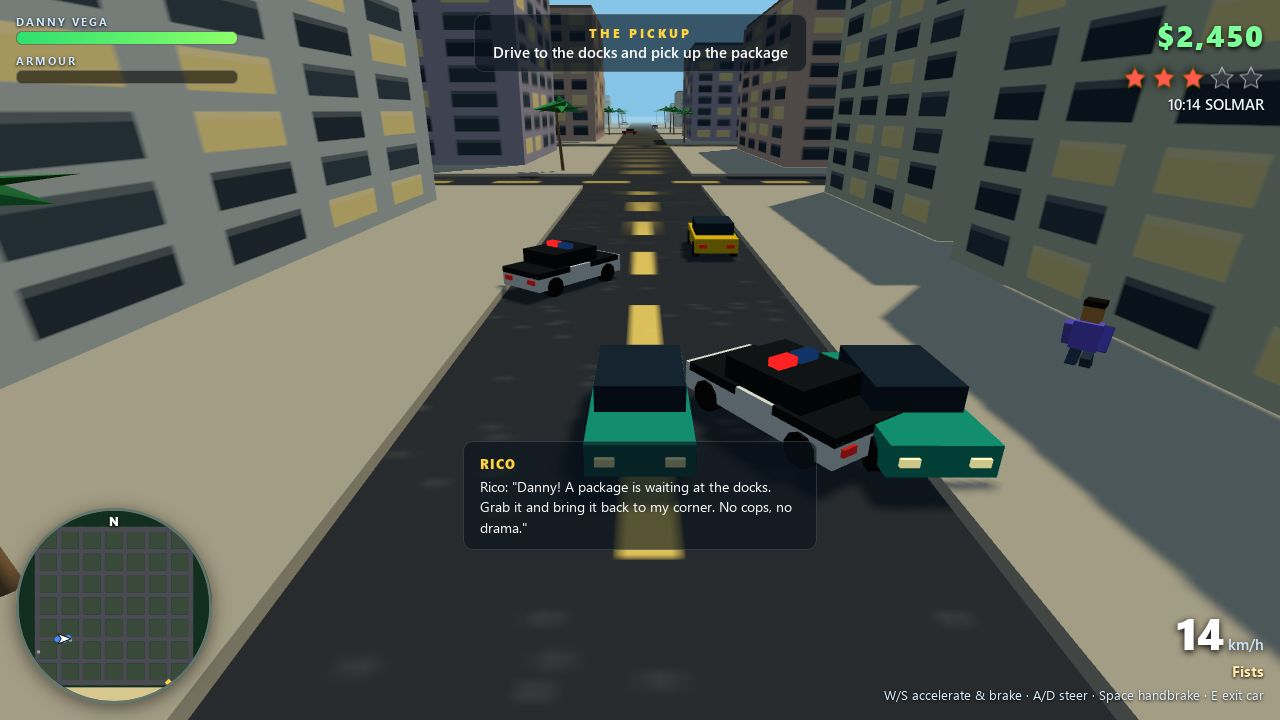
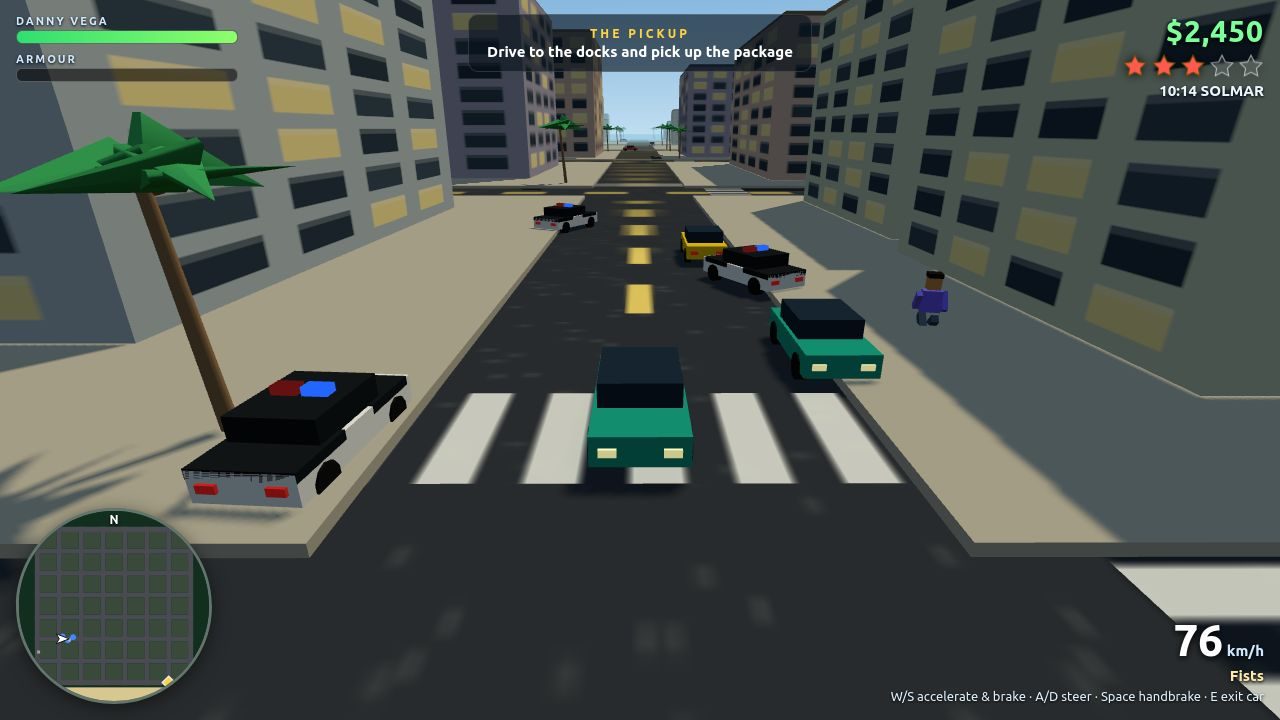
Polish pass: re-staged screenshots, crosswalks, sky gradient, engine audio, brighter beacon
- Re-staged all 4 screenshots: cover (traffic ahead on the avenue),
  chase (police converging from ahead, no overlap), mission (m1 step 2,
  beacon column at Rico's corner), city (beach shoreline with water
  and skyline in one frame)
- Deterministic popups: hidePopups() in staging hides Rico's phone
  dialog, which used to race the shot timer and cover the player/car
- Painted crosswalks at all 64 intersections; gradient sky dome
  (deep blue zenith to pale horizon haze)
- Engine audio loop (sawtooth through a lowpass, pitch follows speed)
- Brighter mission beacon (opacity up, inner core, gentle pulse);
  bigger minimap diamond with a white halo
- Verified: build twice byte-identical, local check 4 passed / 0 failed,
  gameplay smoke test 10/10, zero console errors

diff --git a/game/src/shots.js b/game/src/shots.js
@@ -19,36 +19,44 @@ export function stageShot(name, game) {
   player.state.health = GAME.startHealth;
 
   if (name === 'chase') {
-    // Driving east along the avenue with 3 stars and police cars on the tail.
-    // A long straight run, so the car is still moving when the shot is taken.
+    // Driving east along the avenue with 3 stars and police cars converging
+    // from ahead: they read as a pursuit in frame, and at shot time (~0.5 s
+    // of game time) none has reached the player yet, so none overlaps the car.
     const car = game.parkedCars[0];
     game.putPlayerInCar(car, true);
-    car.pos.set(-150, 0, 90);
+    car.pos.set(-160, 0, 90);
     car.heading = Math.PI / 2; // face +x: eastbound along the avenue
-    car.speed = 26;
+    car.speed = 32;
     player.state.heading = car.heading;
     player.setCameraYaw(Math.PI / 2);
     police.addWanted(3, 'shot staging');
-    // Pursuit staged where the camera sees it: two police cars ahead in the
-    // neighbouring lanes (in frame), one behind (minimap blip, catching up).
-    const pc1 = game.spawnPoliceCarAt(car.pos.x + 14, car.pos.z - 6, Math.PI / 2);
-    pc1.speed = 26;
-    const pc2 = game.spawnPoliceCarAt(car.pos.x + 26, car.pos.z + 6, Math.PI / 2);
-    pc2.speed = 24;
-    const pc3 = game.spawnPoliceCarAt(car.pos.x - 16, car.pos.z + 2, Math.PI / 2);
-    pc3.speed = 28;
+    // Pursuit staged ahead where the camera sees it: three police cars
+    // converging from up the avenue, spaced so the formation holds its shape.
+    const pc1 = game.spawnPoliceCarAt(car.pos.x + 35, car.pos.z - 6, Math.PI / 2);
+    pc1.speed = 30;
+    const pc2 = game.spawnPoliceCarAt(car.pos.x + 50, car.pos.z + 6, Math.PI / 2);
+    pc2.speed = 30;
+    const pc3 = game.spawnPoliceCarAt(car.pos.x + 22, car.pos.z + 3, Math.PI / 2);
+    pc3.speed = 30;
     missions.startMission('m1', game.worldApi());
-    game.showBig('THE HEAT IS ON', '3 stars — lose them or get busted');
   } else if (name === 'mission') {
-    // On foot at Rico's corner, mission 1 active, looking down the avenue
-    // (street, peds and traffic in frame; beacon marker on the minimap).
+    // On foot at Rico's corner, mission 1 on its second step: the beacon
+    // column marks Rico's corner just ahead, and the player faces it.
+    // (Yaw first: teleport snaps the camera for the current yaw.)
+    player.setCameraYaw(Math.PI * 1.25); // look south-west, toward the beacon
+    player.cam.pitch = 0.3;
     player.teleport(lm.rico.x + 6, lm.rico.z + 6);
-    player.setCameraYaw(Math.PI * 0.75);
+    player.state.heading = Math.PI * 1.25;
     missions.startMission('m1', game.worldApi());
+    missions.state.active.step = 1; // 'Bring the package back to Rico's corner'
   } else if (name === 'city') {
-    // On the beach looking back at the skyline: scale + palms + water.
-    player.teleport(30, CITY.beachZ + 8);
-    player.setCameraYaw(Math.PI); // look north, into the city
+    // On the beach looking east-north-east along the shoreline: the shore
+    // cuts diagonally across the frame — water on the right, beach palms
+    // ahead, the skyline to the left — instead of a flat band of sand.
+    player.setCameraYaw(Math.PI * 0.6); // look ENE, along the beach
+    player.cam.pitch = 0.18;
+    player.teleport(-120, CITY.beachZ + 22);
+    player.state.heading = Math.PI * 0.6;
     game.state.cash = 1250;
   } else {
     // cover (default): driving through downtown, mission 1 running, traffic + peds.
@@ -56,12 +64,28 @@ export function stageShot(name, game) {
     game.putPlayerInCar(car, true);
     car.pos.set(-30, 0, 90);
     car.heading = Math.PI / 2; // eastbound along the avenue
-    car.speed = 26;
+    car.speed = 30;
     player.state.heading = car.heading;
     player.setCameraYaw(Math.PI / 2);
     missions.startMission('m1', game.worldApi());
-    game.showToast('Steal a car, run Rico\'s jobs, dodge the Solmar PD');
+    // Two traffic cars on the avenue ahead: one eastbound in the player's
+    // lane, one oncoming — the street reads alive instead of empty.
+    const t0 = game.traffic.cars[0];
+    const t1 = game.traffic.cars[1];
+    if (t0 && t0.traffic) {
+      t0.traffic.route = { street: 90, horizontal: true, dir: 1 };
+      t0.traffic.along = -5;
+      t0.heading = Math.PI / 2;
+    }
+    if (t1 && t1.traffic) {
+      t1.traffic.route = { street: 90, horizontal: true, dir: -1 };
+      t1.traffic.along = 25;
+      t1.heading = -Math.PI / 2;
+    }
   }
+  // No popup may cover the frame: the phone (Rico's texts), the welcome toast
+  // and any big message are hidden deterministically, not left to a timer race.
+  game.hidePopups();
   // Signal the screenshot harness once the scene has settled: after 12 frames
   // on a fast machine, or after 8 s of wall time on a slow software renderer.
   game.state.shotReady = false;

diff --git a/game/src/city.js b/game/src/city.js
@@ -67,6 +67,43 @@ function makeRoadTexture(alongU) {
   return tex;
 }
 
+function makeCrosswalkTexture(horizontal) {
+  // Zebra stripes on a transparent tile: white bars, asphalt showing between.
+  // horizontal=true: bars run along U (crossings of east-west roads);
+  // false: bars run along V (crossings of north-south roads).
+  const c = document.createElement('canvas');
+  c.width = 64; c.height = 64;
+  const g = c.getContext('2d');
+  g.clearRect(0, 0, 64, 64);
+  g.fillStyle = 'rgba(255,255,255,0.85)';
+  for (let i = 0; i < 7; i += 1) {
+    const o = 4 + i * 9;
+    if (horizontal) g.fillRect(0, o, 64, 5);
+    else g.fillRect(o, 0, 5, 64);
+  }
+  const tex = new THREE.CanvasTexture(c);
+  tex.colorSpace = THREE.SRGBColorSpace;
+  return tex;
+}
+
+function makeSkyTexture() {
+  // Vertical gradient for the sky dome: deep blue at the zenith, pale haze
+  // at the horizon. Canvas row 0 (top) maps to the dome's zenith.
+  const c = document.createElement('canvas');
+  c.width = 8; c.height = 256;
+  const g = c.getContext('2d');
+  const grad = g.createLinearGradient(0, 0, 0, 256);
+  grad.addColorStop(0, '#2f6fb8');
+  grad.addColorStop(0.4, '#6ea8d8');
+  grad.addColorStop(0.52, '#cfe8f5');
+  grad.addColorStop(1, '#cfe8f5');
+  g.fillStyle = grad;
+  g.fillRect(0, 0, 8, 256);
+  const tex = new THREE.CanvasTexture(c);
+  tex.colorSpace = THREE.SRGBColorSpace;
+  return tex;
+}
+
 function makePalm(scale) {
   const palm = new THREE.Group();
   const trunk = new THREE.Mesh(cylGeo, trunkMat);
@@ -153,6 +190,14 @@ export function buildCity(scene, rng) {
   // Sky, sun and fog — the sun-soaked look.
   scene.background = new THREE.Color(0x87c5e8);
   scene.fog = new THREE.Fog(0x9fd0e8, 140, 420);
+  // Gradient sky dome (drawn first, never fogged): deeper blue overhead,
+  // pale haze at the horizon — the flat background colour stays as fallback.
+  const sky = new THREE.Mesh(
+    new THREE.SphereGeometry(700, 24, 16),
+    new THREE.MeshBasicMaterial({ map: makeSkyTexture(), side: THREE.BackSide, fog: false, depthWrite: false }),
+  );
+  sky.renderOrder = -1;
+  scene.add(sky);
   const hemi = new THREE.HemisphereLight(0xbfe3ff, 0x8a7a5a, 0.9);
   scene.add(hemi);
   const sun = new THREE.DirectionalLight(0xfff2cc, 2.4);
@@ -209,6 +254,27 @@ export function buildCity(scene, rng) {
     rz.position.set(s, 0.035, 0);
     rz.receiveShadow = true;
     scene.add(rz);
+  }
+
+  // Painted crosswalks at every intersection: zebra stripes just off the
+  // crossing, one across each road. Shared textures/materials, no colliders.
+  const crossTexH = makeCrosswalkTexture(true);
+  const crossTexV = makeCrosswalkTexture(false);
+  const crossMatH = new THREE.MeshLambertMaterial({ map: crossTexH, transparent: true, depthWrite: false });
+  const crossMatV = new THREE.MeshLambertMaterial({ map: crossTexV, transparent: true, depthWrite: false });
+  const crossGeoEW = new THREE.PlaneGeometry(4, road);
+  const crossGeoNS = new THREE.PlaneGeometry(road, 4);
+  for (const sx of streets) {
+    for (const sz of streets) {
+      const cw1 = new THREE.Mesh(crossGeoEW, crossMatH);
+      cw1.rotation.x = -Math.PI / 2;
+      cw1.position.set(sx + 9, 0.05, sz);
+      scene.add(cw1);
+      const cw2 = new THREE.Mesh(crossGeoNS, crossMatV);
+      cw2.rotation.x = -Math.PI / 2;
+      cw2.position.set(sx, 0.05, sz + 9);
+      scene.add(cw2);
+    }
   }
 
   // Facade materials (shared across buildings).

diff --git a/game/src/main.js b/game/src/main.js
@@ -4,7 +4,7 @@
 // the frame loop, and own the screens (start / pause / missions / wasted /
 // busted) plus the ?shot= staging hook.
 import * as THREE from 'three';
-import { CITY, GAME, makeRng } from './config.js';
+import { CITY, GAME, CAR_CFG, makeRng } from './config.js';
 import { initInput, pressed, keys, endFrameInput, mouse } from './input.js';
 import { buildCity } from './city.js';
 import { createPlayer } from './player.js';
@@ -14,11 +14,11 @@ import { createPedestrians } from './pedestrians.js';
 import { createPolice } from './police.js';
 import { createMissions } from './missions.js';
 import { createCombat } from './combat.js';
-import { initHud, updateHud, showToast, showBig, showPhone, hideOverlays, showOverlay } from './hud.js';
+import { initHud, updateHud, showToast, showBig, showPhone, hidePopups, hideOverlays, showOverlay } from './hud.js';
 import { createMinimap } from './minimap.js';
 import { hasSave, saveGame, loadGame, clearSave } from './save.js';
 import { stageShot, SHOT_NAMES } from './shots.js';
-import { unlockAudio, sfx, setSiren } from './audio.js';
+import { unlockAudio, sfx, setSiren, setEngine } from './audio.js';
 
 const params = new URLSearchParams(window.location.search);
 const shotParam = params.get('shot');
@@ -305,6 +305,7 @@ const game = {
   hideStartScreen: () => hideOverlays(),
   showBig: (t, s) => showBig(hud, t, s),
   showToast: (t) => showToast(hud, t),
+  hidePopups: () => hidePopups(hud),
 };
 
 // --- Frame loop -------------------------------------------------------------
@@ -391,6 +392,10 @@ function frame() {
   } else if (state.started && state.paused) {
     if (pressed.KeyP || pressed.Escape) togglePause();
   }
+
+  // Engine loop: hums while driving, silent otherwise (no-op until audio unlocks).
+  setEngine(running && !!player.state.inCar,
+    player.state.inCar ? Math.abs(player.state.inCar.speed) / CAR_CFG.maxSpeed : 0);
 
   // HUD + minimap (throttled to every other frame for the minimap).
   if (state.started) {

diff --git a/game/src/audio.js b/game/src/audio.js
@@ -1,5 +1,6 @@
 // audio.js — tiny WebAudio synth for Solmar City.
-// One clear job: oscillator-only bleeps (shoot, pickup, siren, punch, mission).
+// One clear job: oscillator-only bleeps (shoot, pickup, siren, punch, mission)
+// plus two continuous loops (police siren, engine hum) while they are needed.
 // No audio files, no network. Created lazily on the first user gesture.
 
 let ctx = null;
@@ -92,5 +93,38 @@ export function setSiren(on) {
   } else if (!on && sirenNodes) {
     try { sirenNodes.osc.stop(); sirenNodes.lfo.stop(); } catch { /* already stopped */ }
     sirenNodes = null;
+  }
+}
+
+// Engine loop while driving: a low sawtooth hum through a lowpass filter,
+// rising in pitch and brightness with speed. Call every frame with the
+// current speed fraction (0..1); idempotent, silent until audio is unlocked.
+let engineNodes = null;
+export function setEngine(on, speed01) {
+  if (on && !engineNodes) {
+    const c = ensure();
+    if (!c) return;
+    const osc = c.createOscillator();
+    osc.type = 'sawtooth';
+    osc.frequency.setValueAtTime(55, c.currentTime);
+    const filter = c.createBiquadFilter();
+    filter.type = 'lowpass';
+    filter.frequency.setValueAtTime(300, c.currentTime);
+    const gain = c.createGain();
+    gain.gain.setValueAtTime(0.03, c.currentTime);
+    osc.connect(filter).connect(gain).connect(c.destination);
+    osc.start();
+    engineNodes = { osc, filter, gain };
+  } else if (!on && engineNodes) {
+    try { engineNodes.osc.stop(); } catch { /* already stopped */ }
+    engineNodes = null;
+    return;
+  }
+  if (engineNodes) {
+    const c = ctx;
+    const s = Math.max(0, Math.min(1, speed01 || 0));
+    engineNodes.osc.frequency.setTargetAtTime(55 + s * 110, c.currentTime, 0.08);
+    engineNodes.filter.frequency.setTargetAtTime(300 + s * 900, c.currentTime, 0.08);
+    engineNodes.gain.gain.setTargetAtTime(0.03 + s * 0.03, c.currentTime, 0.1);
   }
 }

diff --git a/game/src/missions.js b/game/src/missions.js
@@ -42,11 +42,16 @@ export const MISSION_DEFS = [
 ];
 
 export function createMissions(scene, landmarks) {
-  // The beacon: a tall glowing column + a bouncing ring at the objective.
-  const beaconMat = new THREE.MeshBasicMaterial({ color: 0xffd23f, transparent: true, opacity: 0.35 });
-  const beacon = new THREE.Mesh(new THREE.CylinderGeometry(2.2, 2.2, 60, 12, 1, true), beaconMat);
+  // The beacon: a tall glowing column + a bright inner core + a bouncing ring
+  // at the objective. The core keeps the column readable from across the city.
+  const beaconMat = new THREE.MeshBasicMaterial({ color: 0xffd23f, transparent: true, opacity: 0.5 });
+  const beacon = new THREE.Mesh(new THREE.CylinderGeometry(2.6, 2.6, 60, 12, 1, true), beaconMat);
   beacon.visible = false;
   scene.add(beacon);
+  const coreMat = new THREE.MeshBasicMaterial({ color: 0xffe27a, transparent: true, opacity: 0.75 });
+  const beaconCore = new THREE.Mesh(new THREE.CylinderGeometry(0.9, 0.9, 60, 8, 1, true), coreMat);
+  beaconCore.visible = false;
+  scene.add(beaconCore);
   const ringMat = new THREE.MeshBasicMaterial({ color: 0xffd23f, transparent: true, opacity: 0.9, side: THREE.DoubleSide });
   const ring = new THREE.Mesh(new THREE.RingGeometry(2.4, 3.0, 24), ringMat);
   ring.rotation.x = -Math.PI / 2;
@@ -103,11 +108,15 @@ export function createMissions(scene, landmarks) {
     if (target) {
       beacon.visible = true;
       ring.visible = true;
+      beaconCore.visible = true;
       beacon.position.set(target.x, 30, target.z);
+      beaconCore.position.set(target.x, 30, target.z);
+      beaconMat.opacity = 0.45 + Math.sin(performance.now() / 400) * 0.08;
       ring.position.set(target.x, 0.15 + Math.sin(performance.now() / 300) * 0.25, target.z);
     } else {
       beacon.visible = false;
       ring.visible = false;
+      beaconCore.visible = false;
     }
     if (!state.active) return;
     const a = state.active;

diff --git a/game/src/hud.js b/game/src/hud.js
@@ -122,6 +122,22 @@ export function showPhone(h, from, msg, ms = 6000) {
   phoneTimer = setTimeout(() => { h.phone.style.display = 'none'; }, ms);
 }
 
+// Hide every transient popup at once (phone / toast / big message) and cancel
+// their timers. Screenshot staging calls this so no popup can cover the frame
+// — otherwise the phone's 6 s timer races the shot-ready signal and the
+// dialog appears in some captures and not others.
+export function hidePopups(h) {
+  if (toastTimer) { clearTimeout(toastTimer); toastTimer = null; }
+  if (bigTimer) { clearTimeout(bigTimer); bigTimer = null; }
+  if (phoneTimer) { clearTimeout(phoneTimer); phoneTimer = null; }
+  const el = h || defaultHud;
+  if (!el) return;
+  el.toast.style.display = 'none';
+  el.bigMsg.style.display = 'none';
+  el.subMsg.style.display = 'none';
+  el.phone.style.display = 'none';
+}
+
 export function hideOverlays() {
   for (const id of ['start-screen', 'pause-screen', 'mission-screen', 'wasted', 'busted']) {
     $(id).classList.add('hidden');

diff --git a/game/src/minimap.js b/game/src/minimap.js
@@ -39,15 +39,19 @@ export function createMinimap(canvas) {
         ctx.fillRect(px(x - CITY.block / 2), pz(z - CITY.block / 2), CITY.block * scale, CITY.block * scale);
       }
     }
-    // Mission marker (pulsing yellow diamond).
+    // Mission marker (pulsing yellow diamond with a white halo so it reads
+    // against dark streets even at a glance).
     const target = world.missionTarget;
     if (target) {
       const pulse = 1 + Math.sin(performance.now() / 220) * 0.25;
       ctx.save();
       ctx.translate(px(target.x), pz(target.z));
       ctx.rotate(Math.PI / 4);
+      ctx.fillStyle = 'rgba(255,255,255,0.9)';
+      const h = 9 * pulse;
+      ctx.fillRect(-h / 2, -h / 2, h, h);
       ctx.fillStyle = '#ffd23f';
-      const s = 5 * pulse;
+      const s = 6.5 * pulse;
       ctx.fillRect(-s / 2, -s / 2, s, s);
       ctx.restore();
     }
